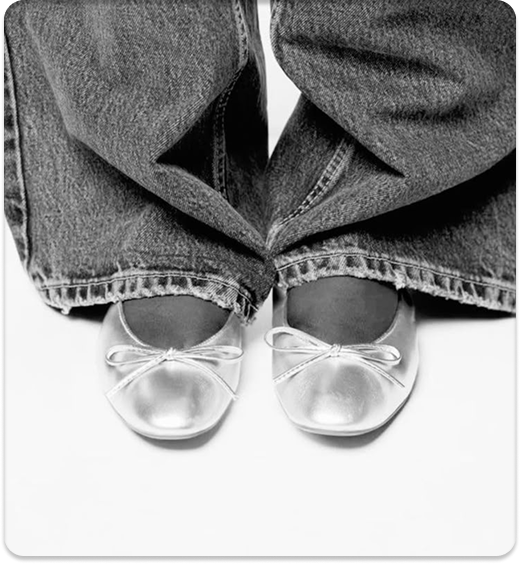
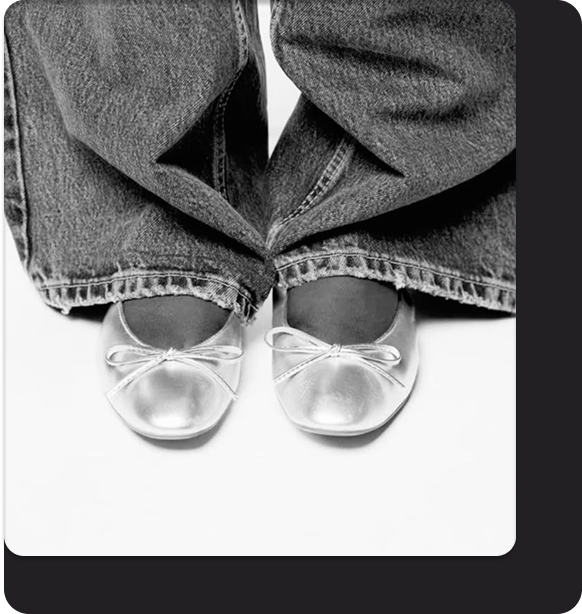
wwwww

diff --git a/index.html b/index.html
@@ -16,10 +16,21 @@
             <a href="">популярное</a>
             <a href="">доставка</a>
             <a href="">контакты</a>
-            <a href=""><img src="./main/Customer.png" alt=""></a>
-            <a href=""><img src="./main/Shopping Bag.png" alt=""></a>
+            <a href=""><img class="main" src="./main/Customer.png" alt=""></a>
+            <a href=""><img class="main" src="./main/Shopping Bag.png" alt=""></a>
         </nav>
-
     </header>
+    <main>
+        <section id="cover">
+            <div class="text">
+                <h1>Найди свой неповторимый образ в нашей коллекции уличной одежды</h1>
+                <img class="shoes" src="./main/shoes.png" alt="">
+                <p>Твоя свобода в каждой детали</p>
+            </div>
+            <div class="main-img">
+                <img src="./main/main.png" alt="">
+            </div>
+        </section>
+    </main>
 </body>
 </html>

diff --git a/style.css b/style.css
@@ -16,10 +16,27 @@ nav{
     gap: 60px;
 }
 nav a{
-    font-size: 64px;
+    font-size: 48px;
 }
 body, a{
     text-decoration: none;
     font-family: "Neucha", cursive;
     color: black;
+}
+.main{
+    width: 90px;
+    height: 90px;
+}
+.shoes{
+    height: 500px;
+    width: 400px;
+}
+.text{
+    flex: 1;
+    text-align: left;
+}
+.main-img{
+    flex: 1;
+    max-width: 900px;
+    
 }
